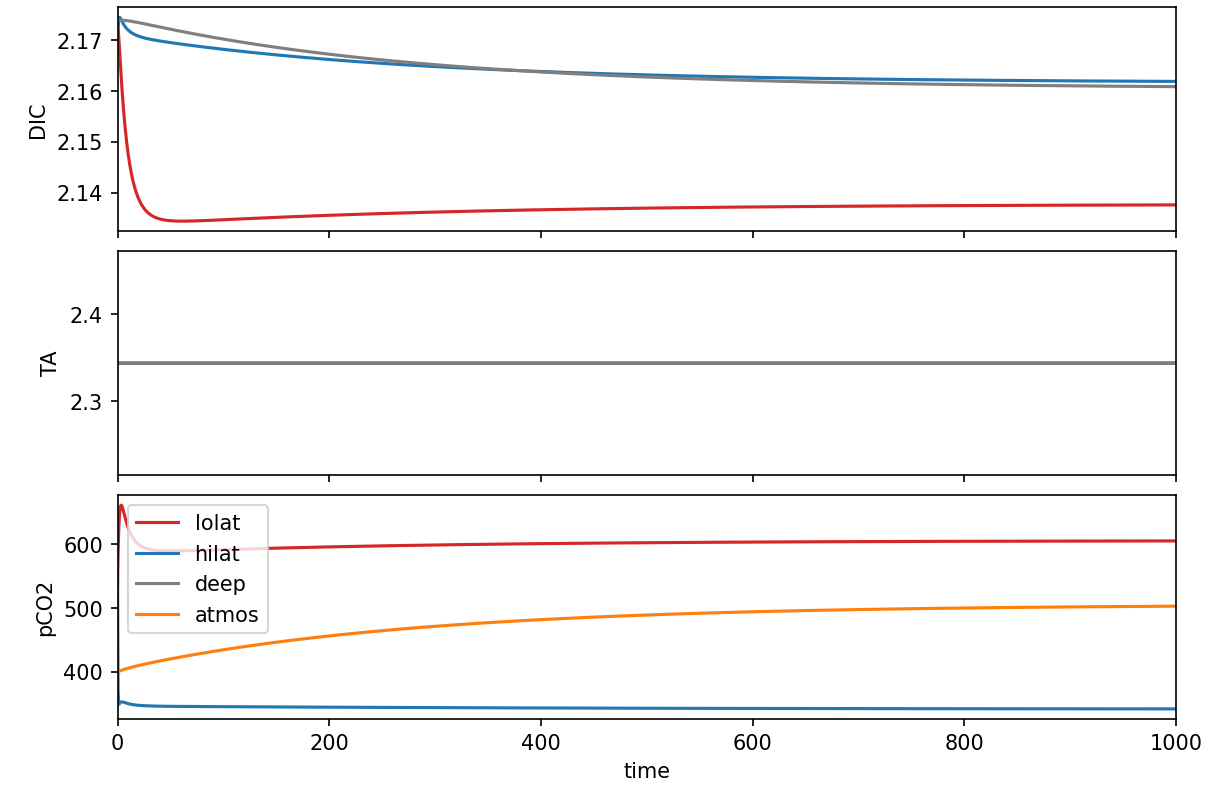
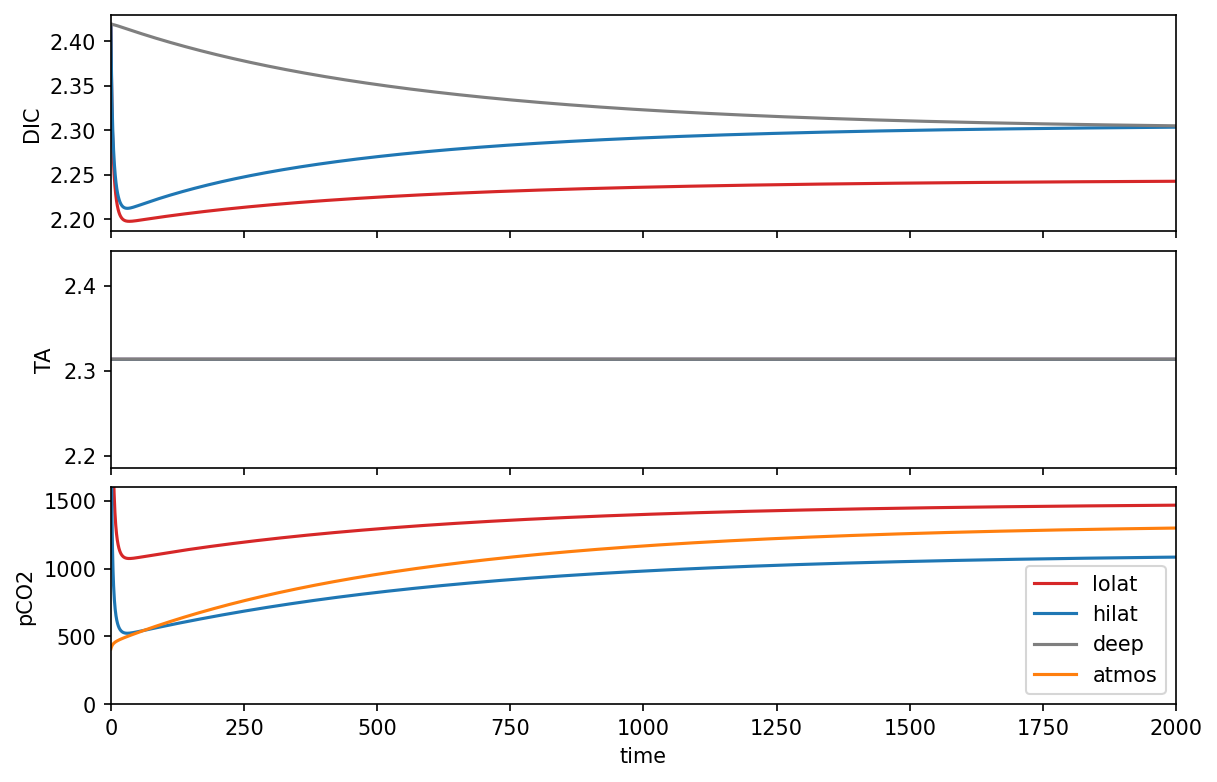
post L37

diff --git a/book/06_oceancarbon/slides/src/L37.tex b/book/06_oceancarbon/slides/src/L37.tex
@@ -29,10 +29,10 @@
 \begin{frame}{Phytoplankton}
     \centering
 
-    \includegraphics<1>[width=\linewidth, totalheight=0.75\textheight, keepaspectratio]{seawifs-chlorophyll.png}
+    \includegraphics<1|handout:1>[width=\linewidth, totalheight=0.75\textheight, keepaspectratio]{seawifs-chlorophyll.png}
     \only<1>{\slidereference{SeaWIFS, NASA}}
 
-    \only<2>{
+    \only<2|handout:2>{
     $$
     \mathrm{\underbrace{6 CO_2}_{carbon~dioxide} + \underbrace{6 H_2O}_{water} \xrightarrow[+light]{photosynthesis} \underbrace{C_6H_{12}O_6}_{glucose} + \underbrace{6 O_2}_{oxygen}}
     $$
@@ -40,14 +40,37 @@
 
 \end{frame}
 
+\begin{frame}{Photosynthesis and pH?}
+    
+    \centering
+
+    \onslide<1-|handout:0>{
+        $$
+        \ce{CO2 + H2O} \rightleftharpoons \ce{HCO3- + H+} \rightleftharpoons \ce{CO3{2-} + H+}
+        $$
+    }
+
+    \onslide<2|handout:0>{
+        \includegraphics[width=\linewidth, totalheight=0.65\textheight, keepaspectratio]{carbon-bjerrum.png}
+    }
+
+\end{frame}
+
 \begin{frame}{Plankton}
     \centering
 
-    \includegraphics<1>[width=\linewidth, totalheight=0.75\textheight, keepaspectratio]{carbon-plankton.jpg}
-    \only<1>{\slidereference{Annegret Stuhr, GEOMAR}}
+    \only<1|handout:1>{\slidereference{Annegret Stuhr, GEOMAR}}
+    \includegraphics<1|handout:1>[width=\linewidth, totalheight=0.75\textheight, keepaspectratio]{carbon-plankton.jpg}
 
-    \only<2>{\slidereference{@PlanktonPundit}}
-    \includegraphics<2>[width=\linewidth, totalheight=0.75\textheight, keepaspectratio]{carbon-plankton-foodweb.jpeg}
+    \only<2|handout:2>{\slidereference{@PlanktonPundit}}
+    \includegraphics<2|handout:2>[width=\linewidth, totalheight=0.75\textheight, keepaspectratio]{carbon-plankton-foodweb.jpeg}
+
+\end{frame}
+
+\begin{frame}{Patterns of Productivity}
+    \centering
+
+    \includegraphics[width=\linewidth, totalheight=0.75\textheight, keepaspectratio]{carbon-npp.png}
 
 \end{frame}
 
@@ -115,10 +138,10 @@
 \begin{frame}{Light Limitation}
     \begin{columns}
         \begin{column}{0.7\linewidth}
-            \includegraphics[width=\linewidth, totalheight=\textheight, keepaspectratio]{carbon-biopump-light.png}
+            \includegraphics<2|handout:1>[width=\linewidth, totalheight=\textheight, keepaspectratio]{carbon-biopump-light.png}
         \end{column}
         \begin{column}{0.3\linewidth}
-            \includegraphics[width=\linewidth, totalheight=\textheight, keepaspectratio]{carbon-light-limitation.png}
+            \includegraphics<1|handout:1>[width=\linewidth, totalheight=\textheight, keepaspectratio]{carbon-light-limitation.png}
         \end{column}
     \end{columns}
 \end{frame}
@@ -132,8 +155,8 @@
 \begin{frame}{Approximating Light Limitation}
     \begin{itemize}
         \item The high latitudes are dark with a deep mixed layer depth (MLD) for part of the year.
-        \item Nutrients accumulate in the winter months, and they spend longer in the surface waters.
-        \item Nutrients have a longer lifetime ($\tau$) in the surface waters at high latitudes.
+        \item Nutrients accumulate in the winter months, when phytoplankton cannot grow.
+        \item Nutrients are removed less quickly from the surface, so have a longer lifetime ($\tau$) in high latitudes.
     \end{itemize}
 \end{frame}
 
@@ -141,11 +164,11 @@
 
 \begin{frame}{Marine Snow}
 
-    \only<1>{\slidereference{@PlanktonPundit}}
-    \includegraphics<1>[width=\linewidth, totalheight=0.75\textheight, keepaspectratio]{carbon-plankton-foodweb.jpeg}
+    \only<1|handout:0>{\slidereference{@PlanktonPundit}}
+    \includegraphics<1|handout:0>[width=\linewidth, totalheight=0.75\textheight, keepaspectratio]{carbon-plankton-foodweb.jpeg}
 
-    \only<2|handout:0>{\slidereference{Sarmiento \& Gruber (2006)}}
-    \includegraphics<2|handout:0>[width=\linewidth, totalheight=0.75\textheight, keepaspectratio]{carbon-npp.png}
+    \only<2|handout:1>{\slidereference{Sarmiento \& Gruber (2006)}}
+    \includegraphics<2|handout:1>[width=\linewidth, totalheight=0.75\textheight, keepaspectratio]{carbon-npp.png}
 
     \only<3|handout:2>{
         \slidereference{Omand et al. (2020)}
@@ -235,23 +258,39 @@
 
 \end{frame}
 
-\begin{frame}{2. Coupling productivity and Carbon}
+\begin{frame}{2. Coupling productivity and Carbon: DIC}
 
-\begin{align*}
-    \mathrm{\dv{DIC_L}{t}} &= \mathrm{\begin{bmatrix} \mathrm{transport} \\ \mathrm{CO_2~exch.}\end{bmatrix} - 106 \frac{1}{\tau^P_L} P_L} \\
-    \mathrm{\dv{DIC_H}{t}} &= \mathrm{\begin{bmatrix} \mathrm{transport} \\ \mathrm{CO_2~exch.}\end{bmatrix} - 106 \frac{1}{\tau^P_H} P_H} \\
-    \mathrm{\dv{DIC_D}{t}} &= \mathrm{[\mathrm{transport}] + \left. \left( 106 \frac{V_L}{\tau^P_L} P_L + 106 \frac{V_H}{\tau^P_H} P_H \right) \middle / V_D \right.}
-\end{align*}
-
-\begin{align*}
-    \mathrm{\dv{TA_L}{t}} &= \mathrm{[\mathrm{transport}] + 18 \frac{1}{\tau^P_L} P_L} \\
-    \mathrm{\dv{TA_H}{t}} &= \mathrm{[\mathrm{transport}] + 18 \frac{1}{\tau^P_H} P_H} \\
-    \mathrm{\dv{TA_D}{t}} &= \mathrm{[\mathrm{transport}] - \left. \left( 18 \frac{V_L}{\tau^P_L} P_L + 18 \frac{V_H}{\tau^P_H} P_H \right) \middle / V_D \right.}
-\end{align*}
+    \begin{align*}
+        \mathrm{\dv{DIC_L}{t}} &= \mathrm{\begin{bmatrix} \mathrm{transport} \\ \mathrm{CO_2~exch.}\end{bmatrix} - 106 \frac{1}{\tau^P_L} P_L} \\
+        \mathrm{\dv{DIC_H}{t}} &= \mathrm{\begin{bmatrix} \mathrm{transport} \\ \mathrm{CO_2~exch.}\end{bmatrix} - 106 \frac{1}{\tau^P_H} P_H} \\
+        \mathrm{\dv{DIC_D}{t}} &= \mathrm{[\mathrm{transport}] + \left. \left( 106 \frac{V_L}{\tau^P_L} P_L + 106 \frac{V_H}{\tau^P_H} P_H \right) \middle / V_D \right.}
+    \end{align*}
 
 \end{frame}
 
+\begin{frame}{2. Coupling productivity and Carbon: TA}
+    
+    \begin{align*}
+        \mathrm{\dv{TA_L}{t}} &= \mathrm{[\mathrm{transport}] + 18 \frac{1}{\tau^P_L} P_L} \\
+        \mathrm{\dv{TA_H}{t}} &= \mathrm{[\mathrm{transport}] + 18 \frac{1}{\tau^P_H} P_H} \\
+        \mathrm{\dv{TA_D}{t}} &= \mathrm{[\mathrm{transport}] - \left. \left( 18 \frac{V_L}{\tau^P_L} P_L + 18 \frac{V_H}{\tau^P_H} P_H \right) \middle / V_D \right.}
+    \end{align*}
+    
+    \end{frame}
+
+\begin{frame}{Impact of Biological Pump}
+    \centering
+
+    \includegraphics<1|handout:1>[width=\linewidth, totalheight=0.8\textheight, keepaspectratio]{carbon-model-DIC-TA-pCO2.png}
+    \only<1|handout:1>{$\mathrm{pCO_2} \sim 1300$}
+
+    \includegraphics<2|handout:2>[width=\linewidth, totalheight=0.8\textheight, keepaspectratio]{carbon-model-DIC-TA-pCO2-bio.png}
+    \only<2|handout:2>{$\mathrm{pCO_2} \sim 350$}
+    
+\end{frame}
+
 \end{document}
+
 
 
 % \begin{frame}{TITLE}
